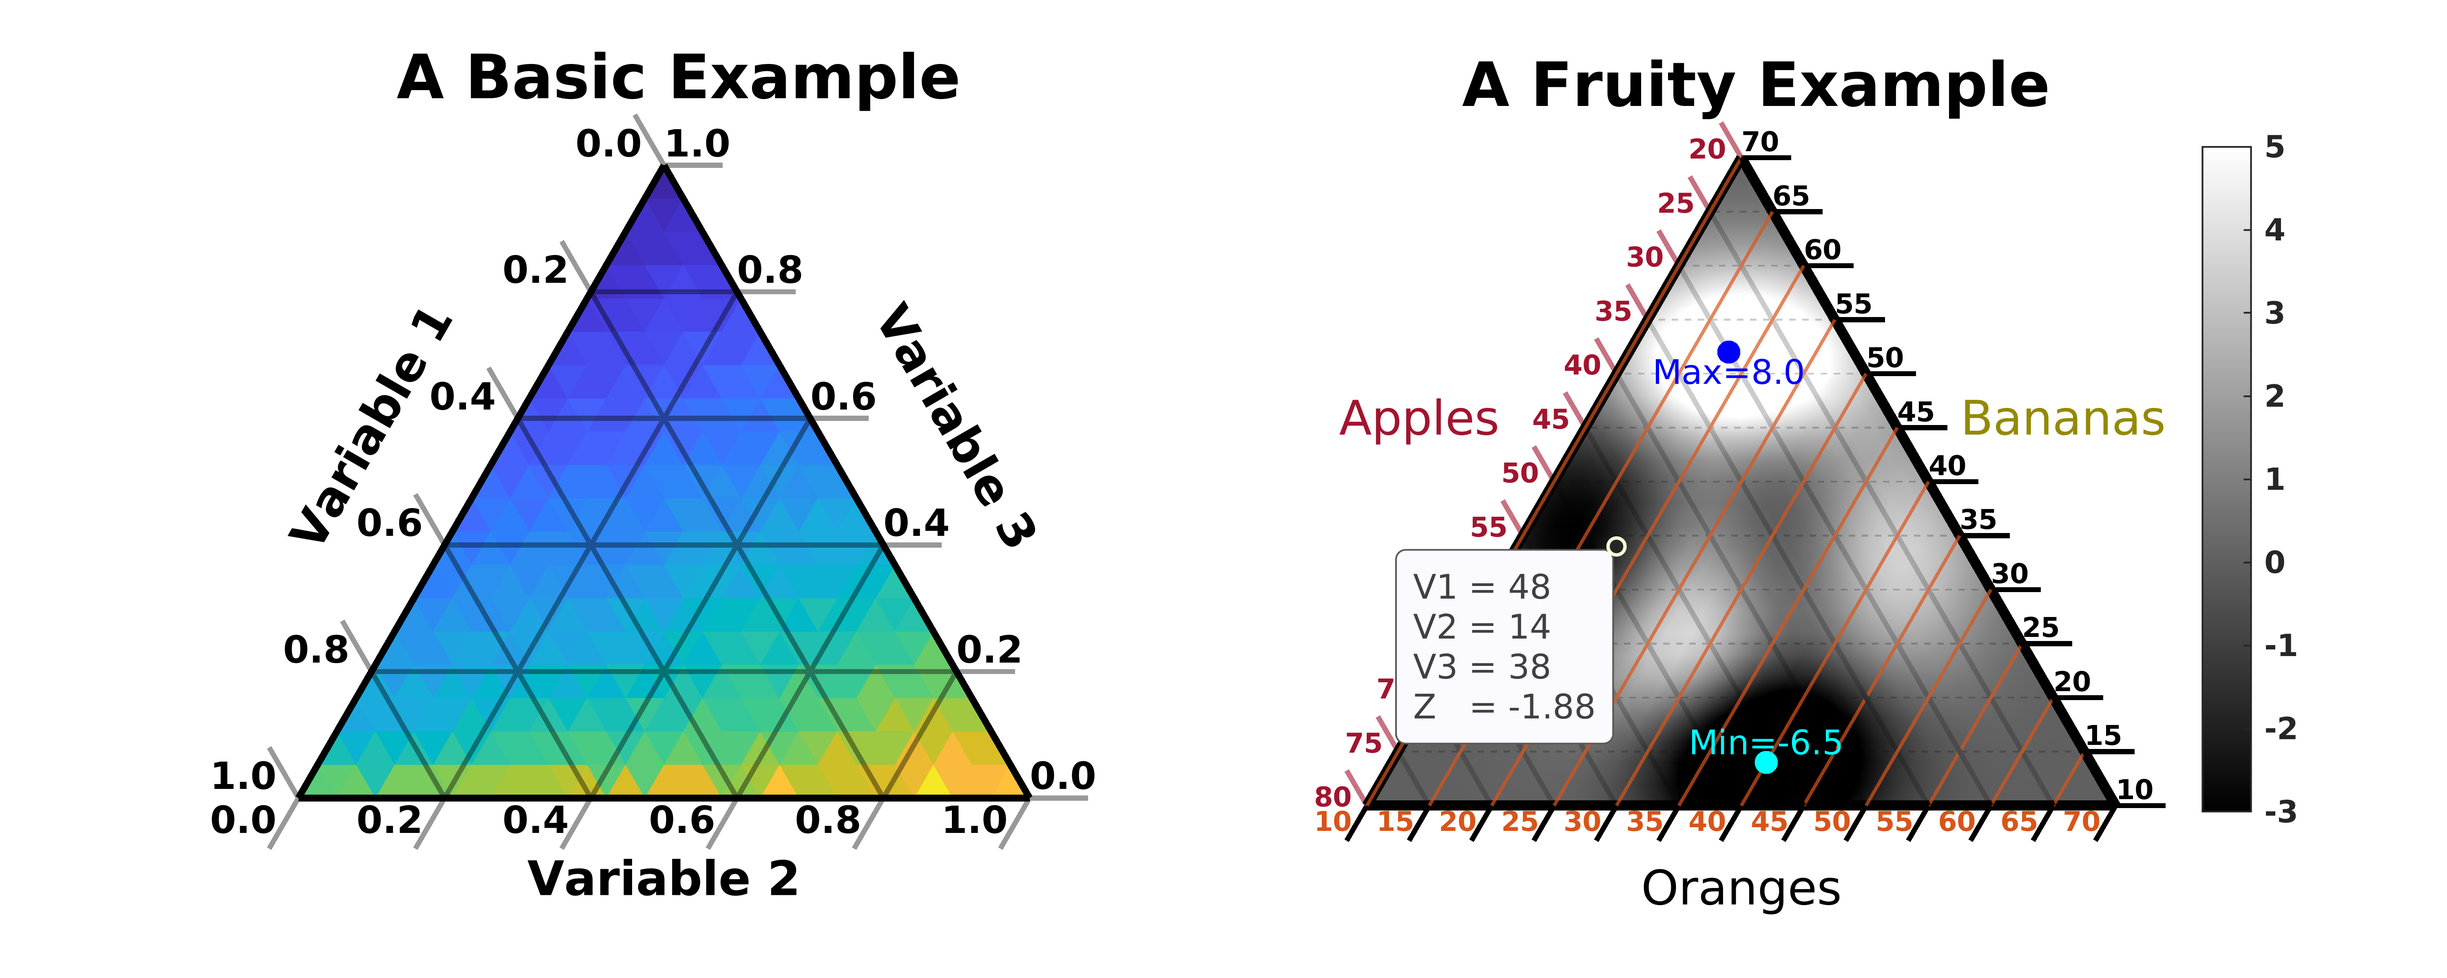
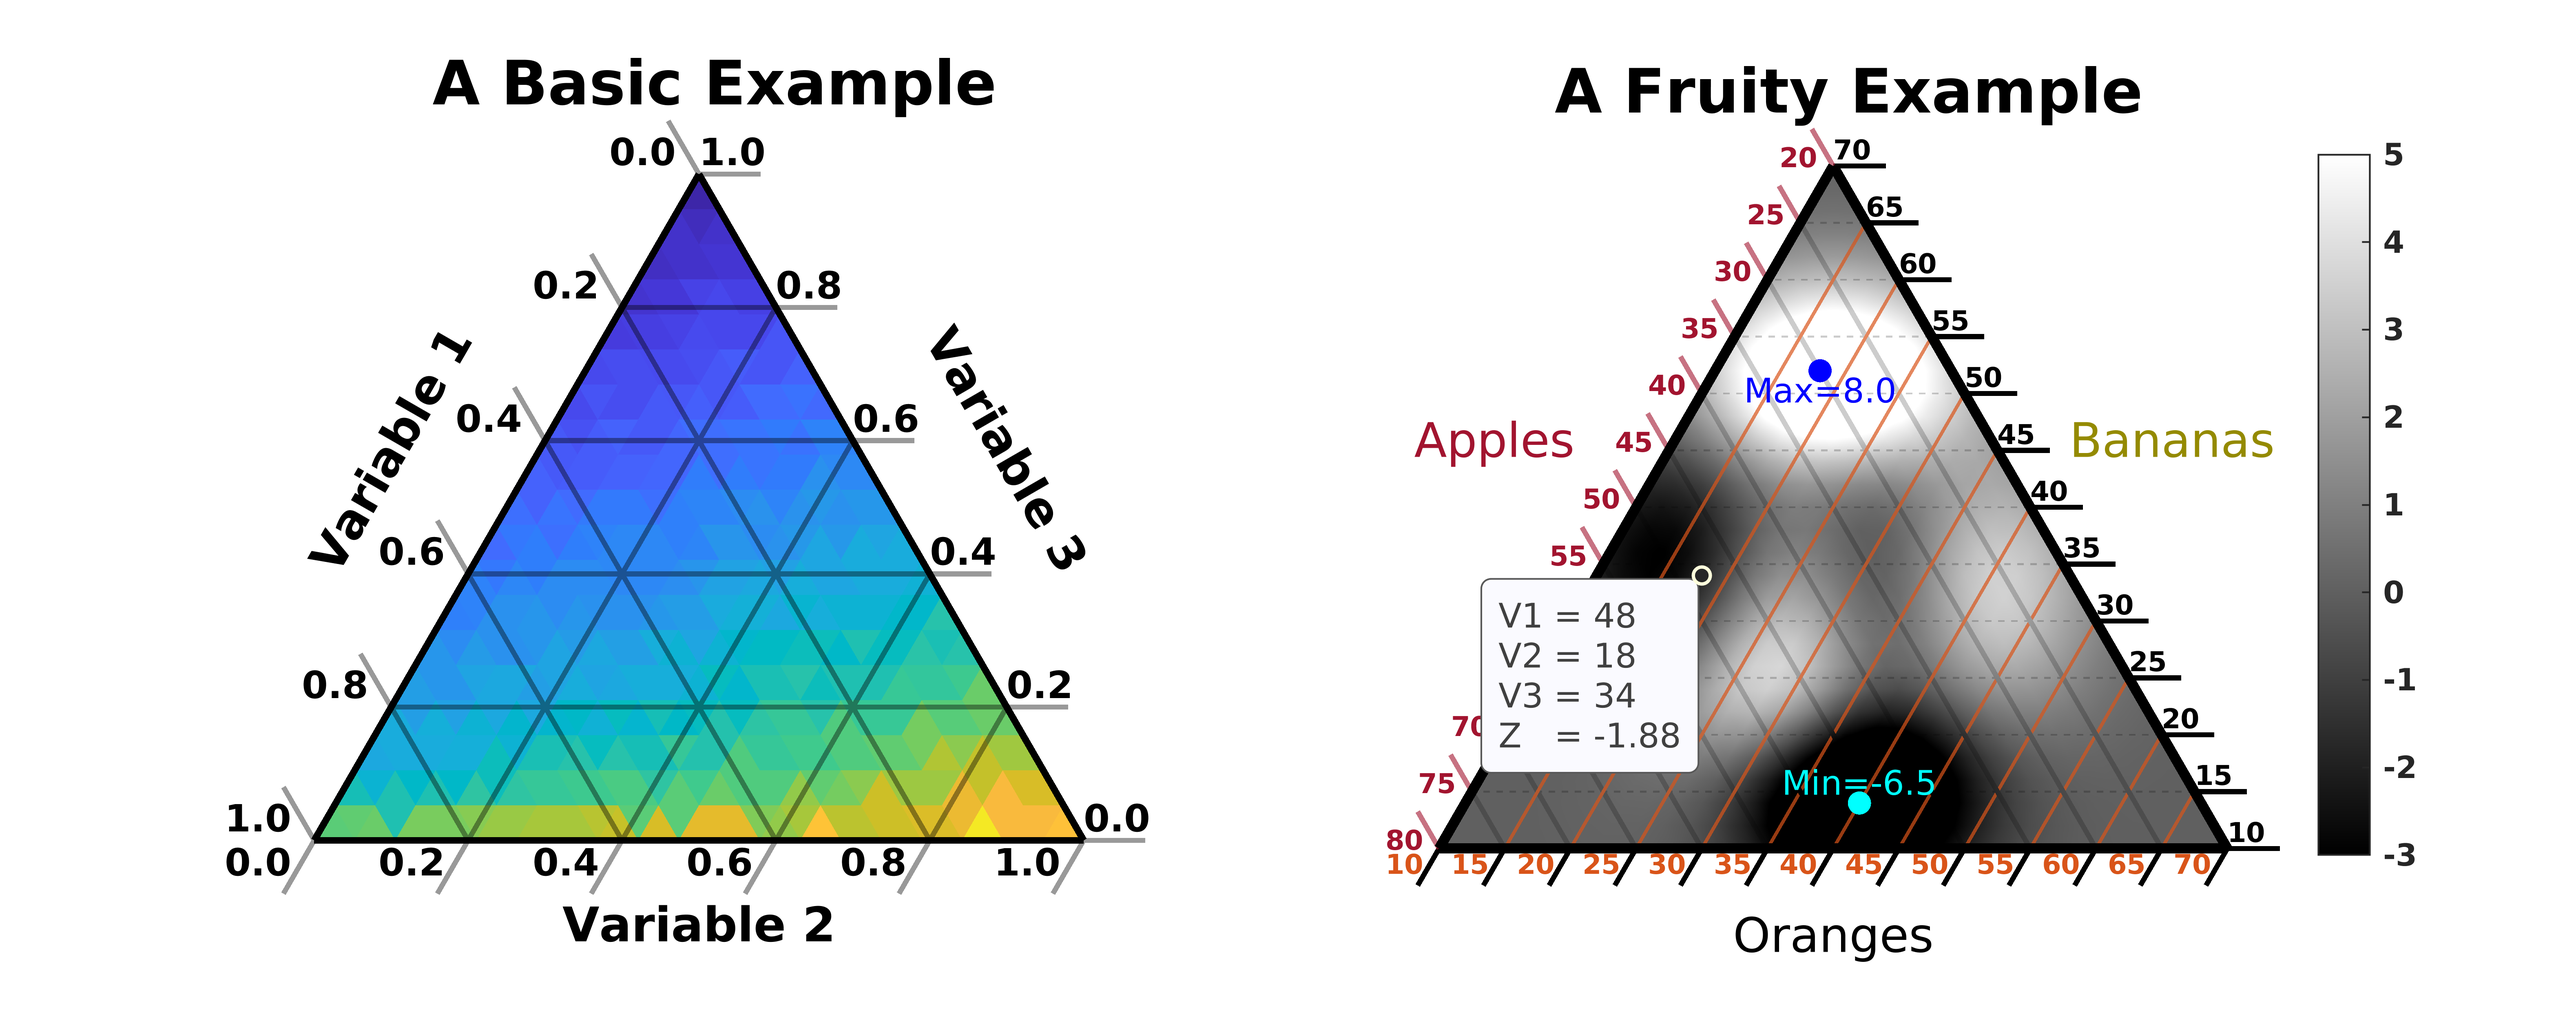
fixed issue with restacking that out gridlines above outline. Updated figure

diff --git a/figure_tweaks/restack_dataplots.m b/figure_tweaks/restack_dataplots.m
@@ -69,7 +69,7 @@ function handle = restack_dataplots( handle, dataplots )
                 grid_insert_flag = false;
                 z = max( dataplots(i).object.ZData(:) ) + 1.0;
                 handle.grid.lines(1,1).ZData(:) = z;
-                handle.outline.lines(1,1).ZData(:) = z;
+                handle.outline.lines(1,1).ZData(:) = z+0.01;
             end
         elseif ( strcmp( dataplots(i).object.Type , 'text'  )==1 )
             dataplots(i).object.Position(3) = z;
